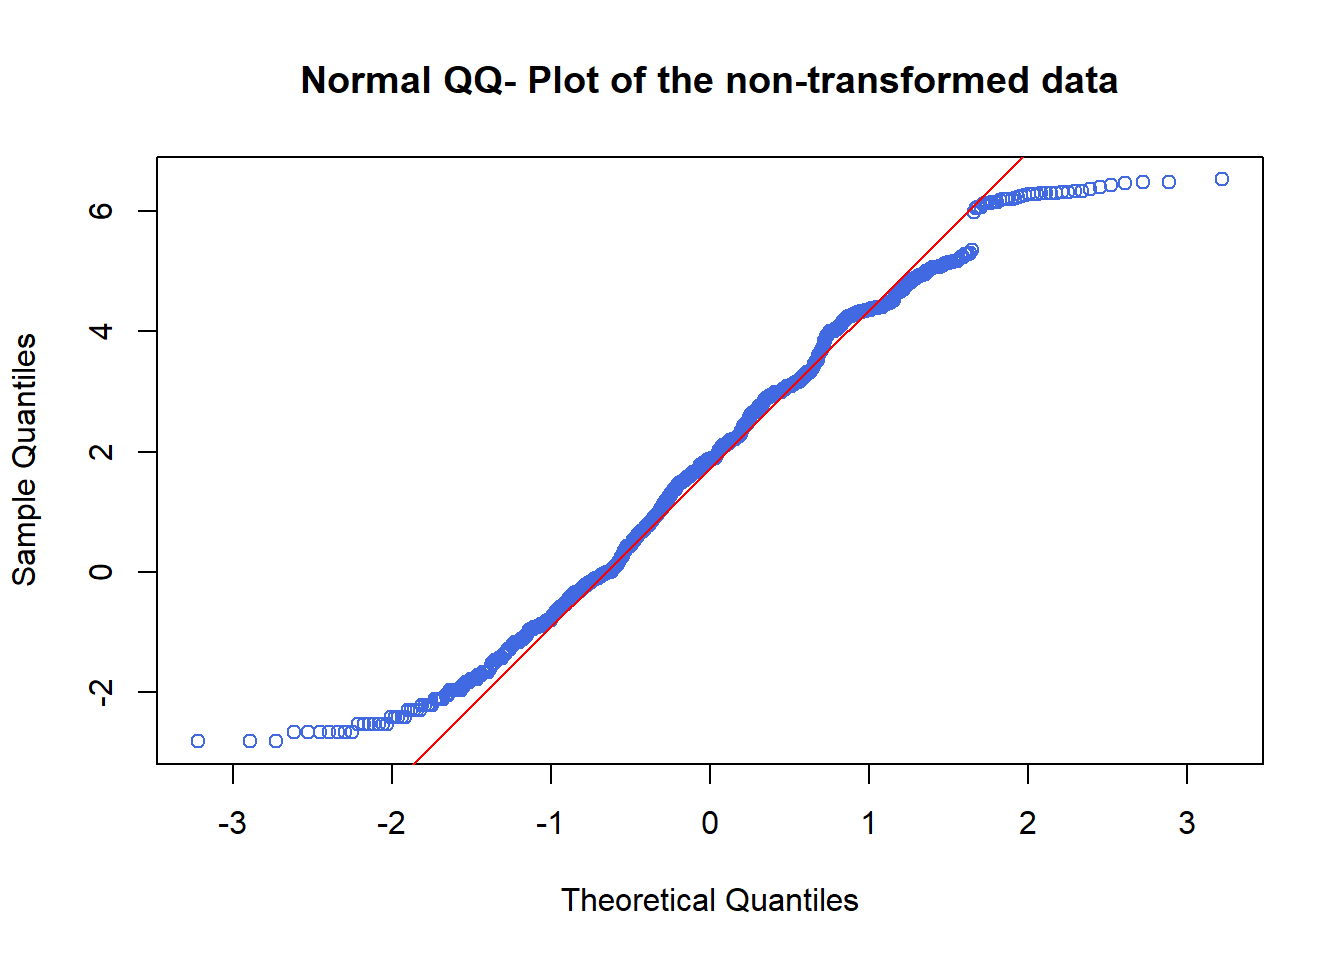
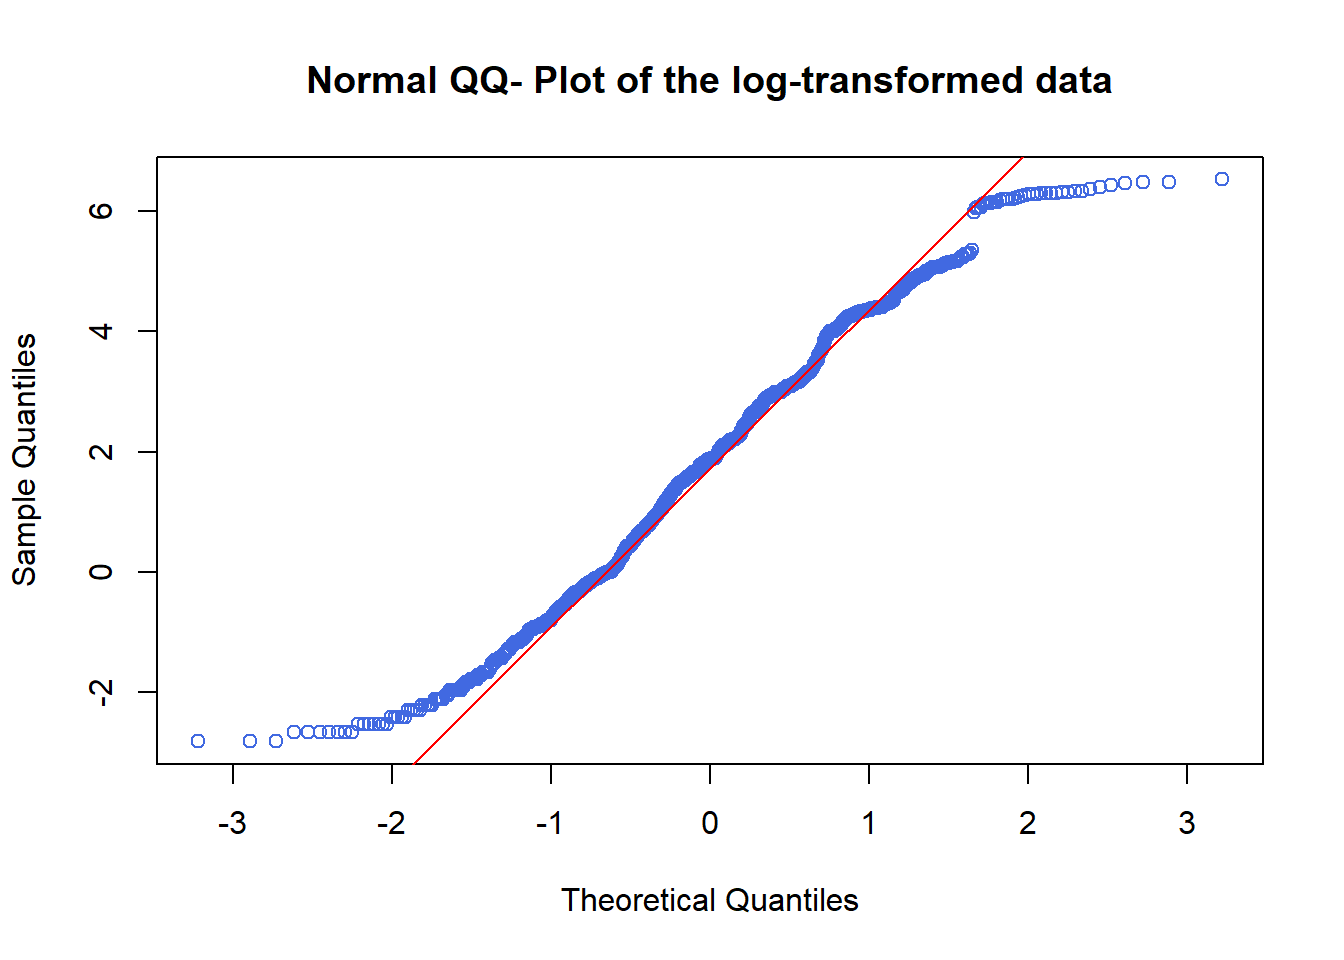
updating some MAD titles

Changed region(s): [[0.2188, 0.0625, 0.8438, 0.125]]

diff --git a/Text/Reports/Report.html b/Text/Reports/Report.html
@@ -1721,9 +1721,10 @@ ul.task-list li input[type="checkbox"] {
 </div>
 </div>
 </div>
+<p>The QQ plot shows very skewed data which we would expected…</p>
 <p><strong>2.4 Multivariate normal distribution</strong></p>
 <p>What tests did we use? Henze Zirkler</p>
-<p>Why did we use those tests?</p>
+<p>Why did we use those tests? #ALICE STUFF</p>
 <div class="cell">
 <div class="cell-output cell-output-stdout">
 <pre><code>Henze_Zirkler Test Results:</code></pre>
